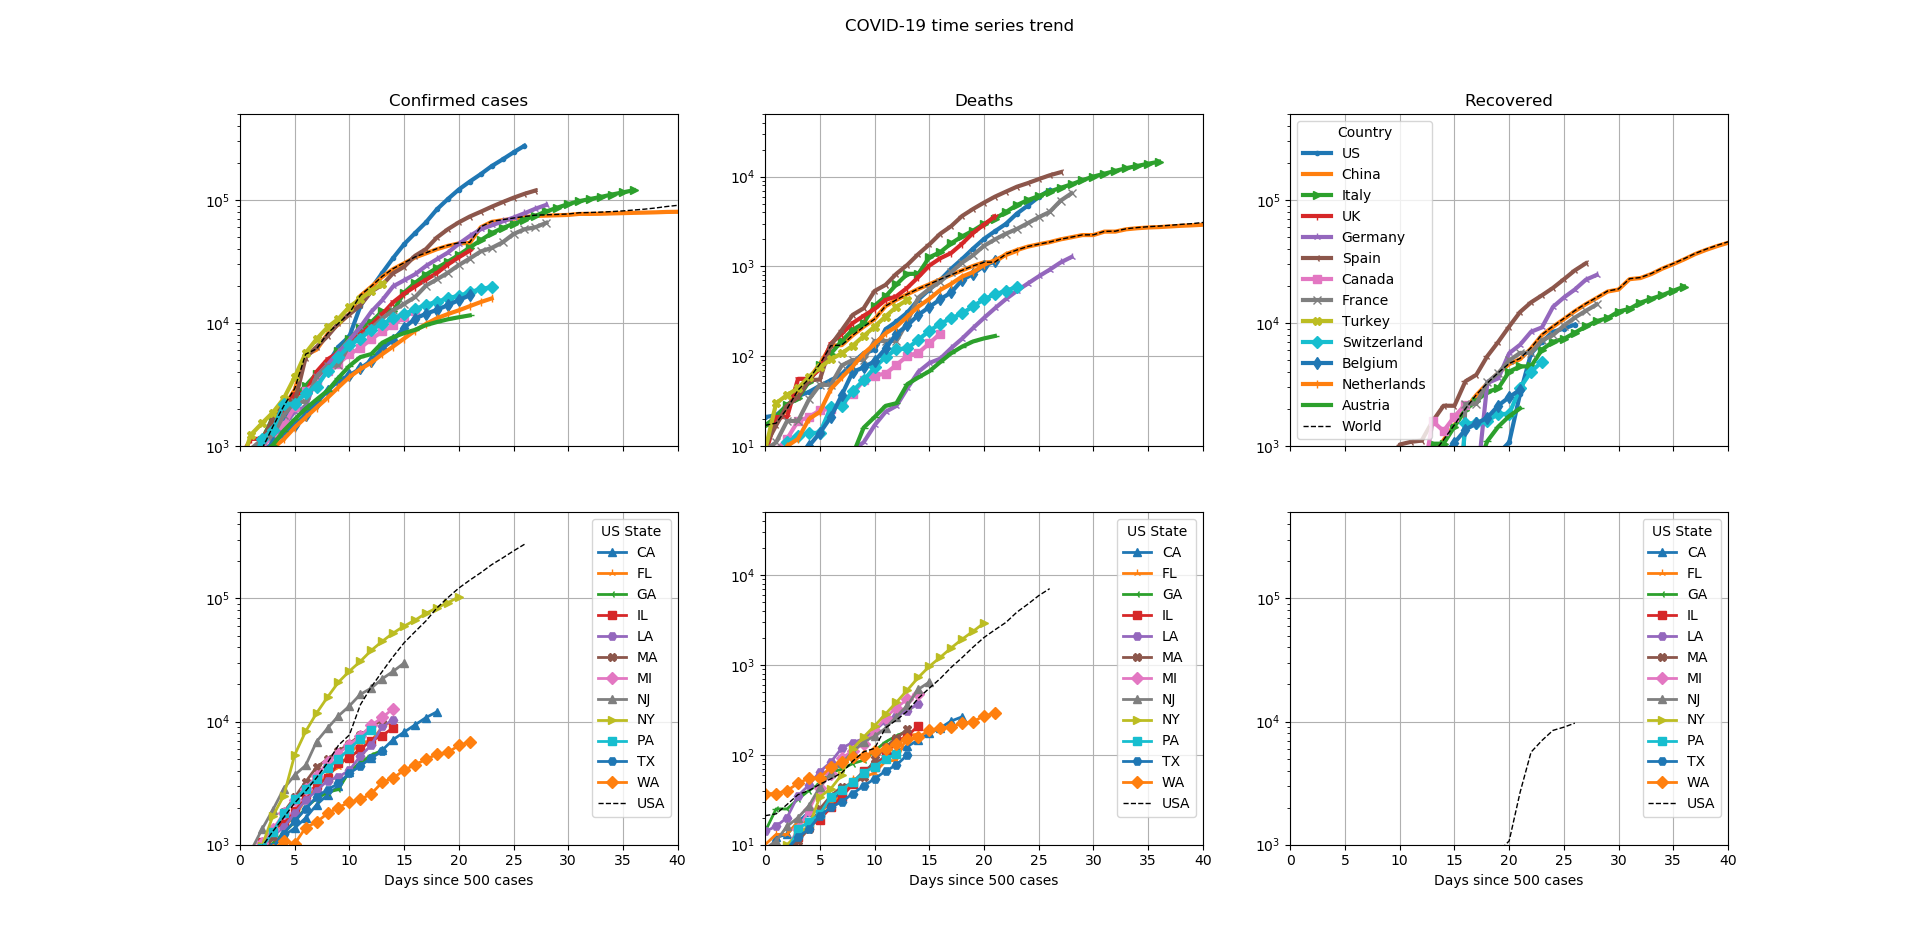
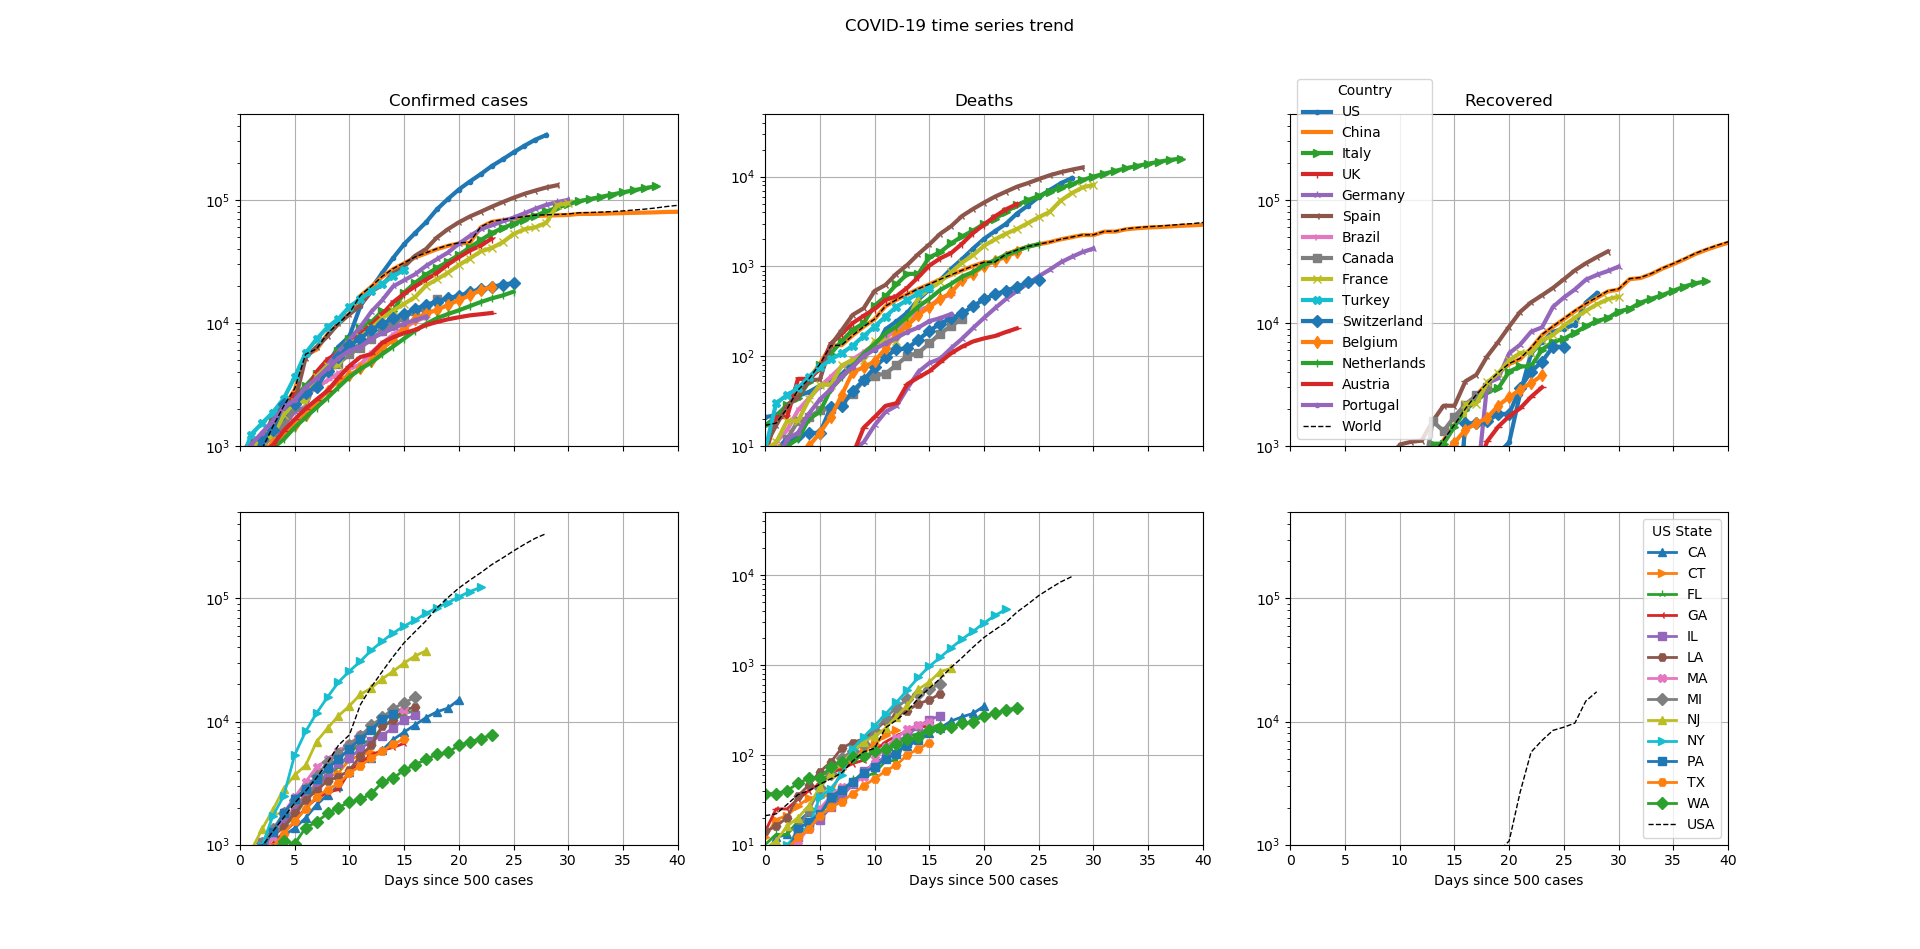
Daily update
Updating the charts, csv data and code to parse newly obtained updated results.

diff --git a/tools/collection.py b/tools/collection.py
@@ -158,10 +158,10 @@ class DataClass:
                         )
                     )
             for m in [4]:
-                for d in np.arange(start=1, stop=4, step=1):
+                for d in np.arange(start=1, stop=6, step=1):
                     dates.append(
                         datetime.datetime(
-                            year=int(y), month= int(m), day=int(d),
+                            year=int(y), month=int(m), day=int(d),
                         )
                     )
 
